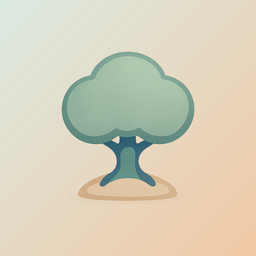
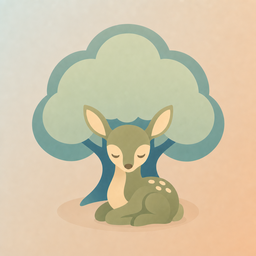
Quietoak's new mark on both sites — Willow resting under the oak
Swaps the plain-tree icon for the adopted 1.1 mark (anchor-ios e0178bb) on the
Quietoak favicon/apple-touch-icon/header brand, and on the Quietoak tile in the
hypersage.ai portfolio.

The root's two references carried NO cache-buster, so a stale logo would have
been served indefinitely from cache — added one alongside the quietoak page's
existing bump.

og-image.png deliberately untouched: it is wordmark + the six companions and
never showed the tree, so it needs no swap.

Note the App Store still shows the OLD mark until 1.1 ships (build 2 in review
contains it). Accepted knowingly — Vanus asked for the sites to lead.

diff --git a/index.html b/index.html
@@ -805,7 +805,7 @@
     <div class="container">
       <span class="label">The portfolio</span>
       <a class="word" href="#product-wingmate"><img src="icons/wingmate.png" alt="" width="26" height="26" loading="lazy">Wingmate</a>
-      <a class="word" href="#product-quietoak"><img src="icons/quietoak.png" alt="" width="26" height="26" loading="lazy">Quietoak</a>
+      <a class="word" href="#product-quietoak"><img src="icons/quietoak.png?v=20260810w" alt="" width="26" height="26" loading="lazy">Quietoak</a>
       <a class="word" href="#product-cryptosage"><img src="icons/cryptosage.png" alt="" width="26" height="26" loading="lazy">CryptoSage&nbsp;AI</a>
       <a class="word" href="#product-saffra"><img src="icons/saffra.png" alt="" width="26" height="26" loading="lazy">Saffra</a>
       <a class="word" href="#product-storyvault"><img src="icons/storyvault.png" alt="" width="26" height="26" loading="lazy">StoryVault&nbsp;AI</a>
@@ -853,7 +853,7 @@
         <!-- QUIETOAK -->
         <article class="product" id="product-quietoak" style="--accent: var(--c-quietoak);">
           <div class="top">
-            <img class="app-icon" src="icons/quietoak.png" alt="" width="58" height="58" loading="lazy">
+            <img class="app-icon" src="icons/quietoak.png?v=20260810w" alt="" width="58" height="58" loading="lazy">
             <div class="titleblock">
               <h3>Quietoak</h3>
               <div class="cat">DBT Skills Companion</div>

diff --git a/quietoak/index.html b/quietoak/index.html
@@ -29,8 +29,8 @@
   <meta name="twitter:image" content="https://hypersage.ai/quietoak/og-image.png?v=20260806b">
   <meta name="twitter:image:alt" content="Quietoak — a calmer way to practice DBT skills">
 
-  <link rel="icon" type="image/png" href="quietoak-icon.png?v=20260804e">
-  <link rel="apple-touch-icon" href="quietoak-icon.png?v=20260804e">
+  <link rel="icon" type="image/png" href="quietoak-icon.png?v=20260810w">
+  <link rel="apple-touch-icon" href="quietoak-icon.png?v=20260810w">
 
   <link rel="preconnect" href="https://fonts.googleapis.com">
   <link rel="preconnect" href="https://fonts.gstatic.com" crossorigin>
@@ -693,7 +693,7 @@
   <nav class="site">
     <div class="container">
       <div class="brand">
-        <img src="quietoak-icon.png?v=20260804e" width="256" height="256" alt="">
+        <img src="quietoak-icon.png?v=20260810w" width="256" height="256" alt="">
         Quietoak
       </div>
       <div class="links">
